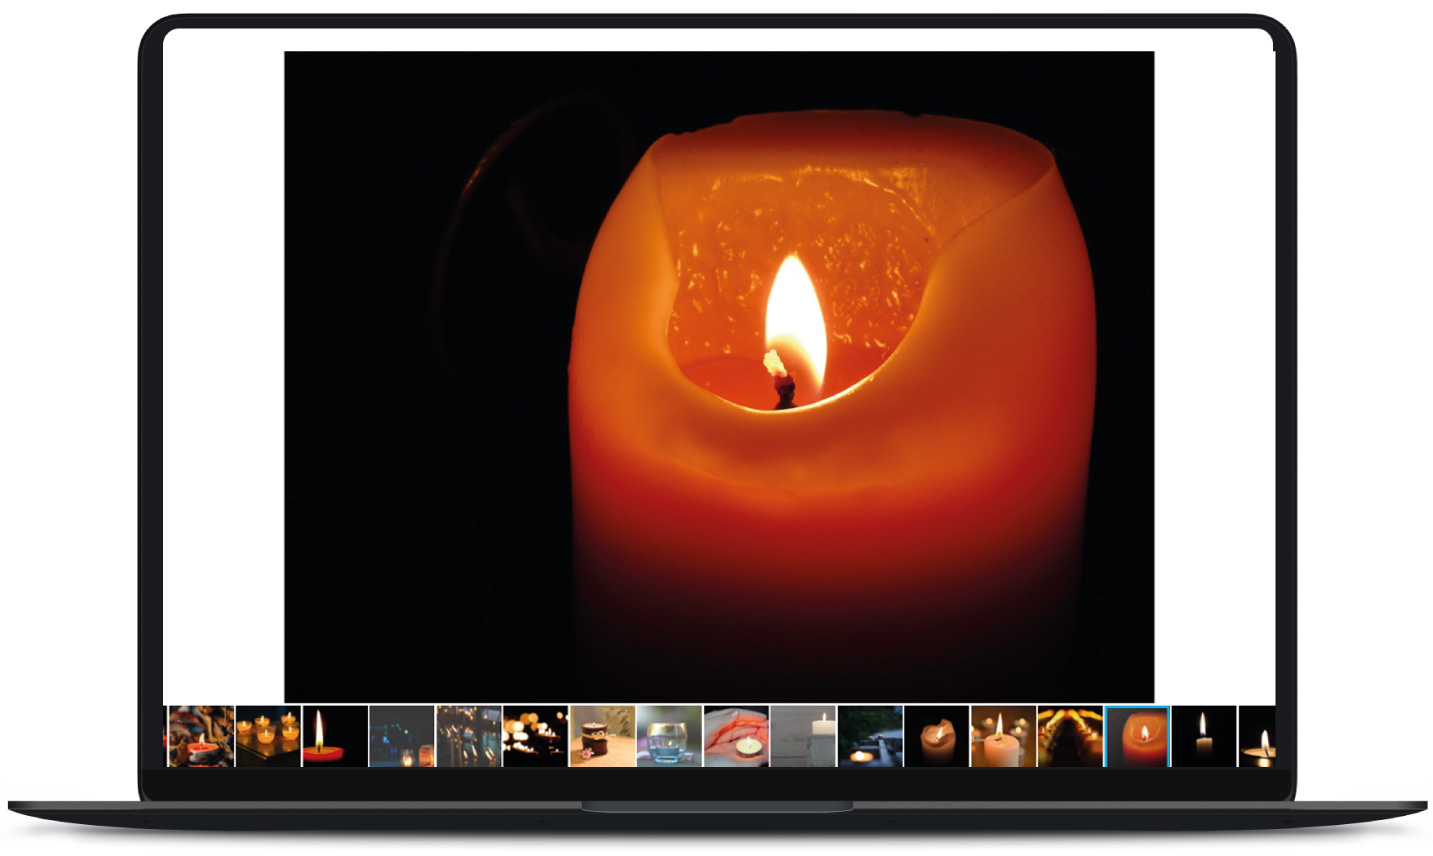
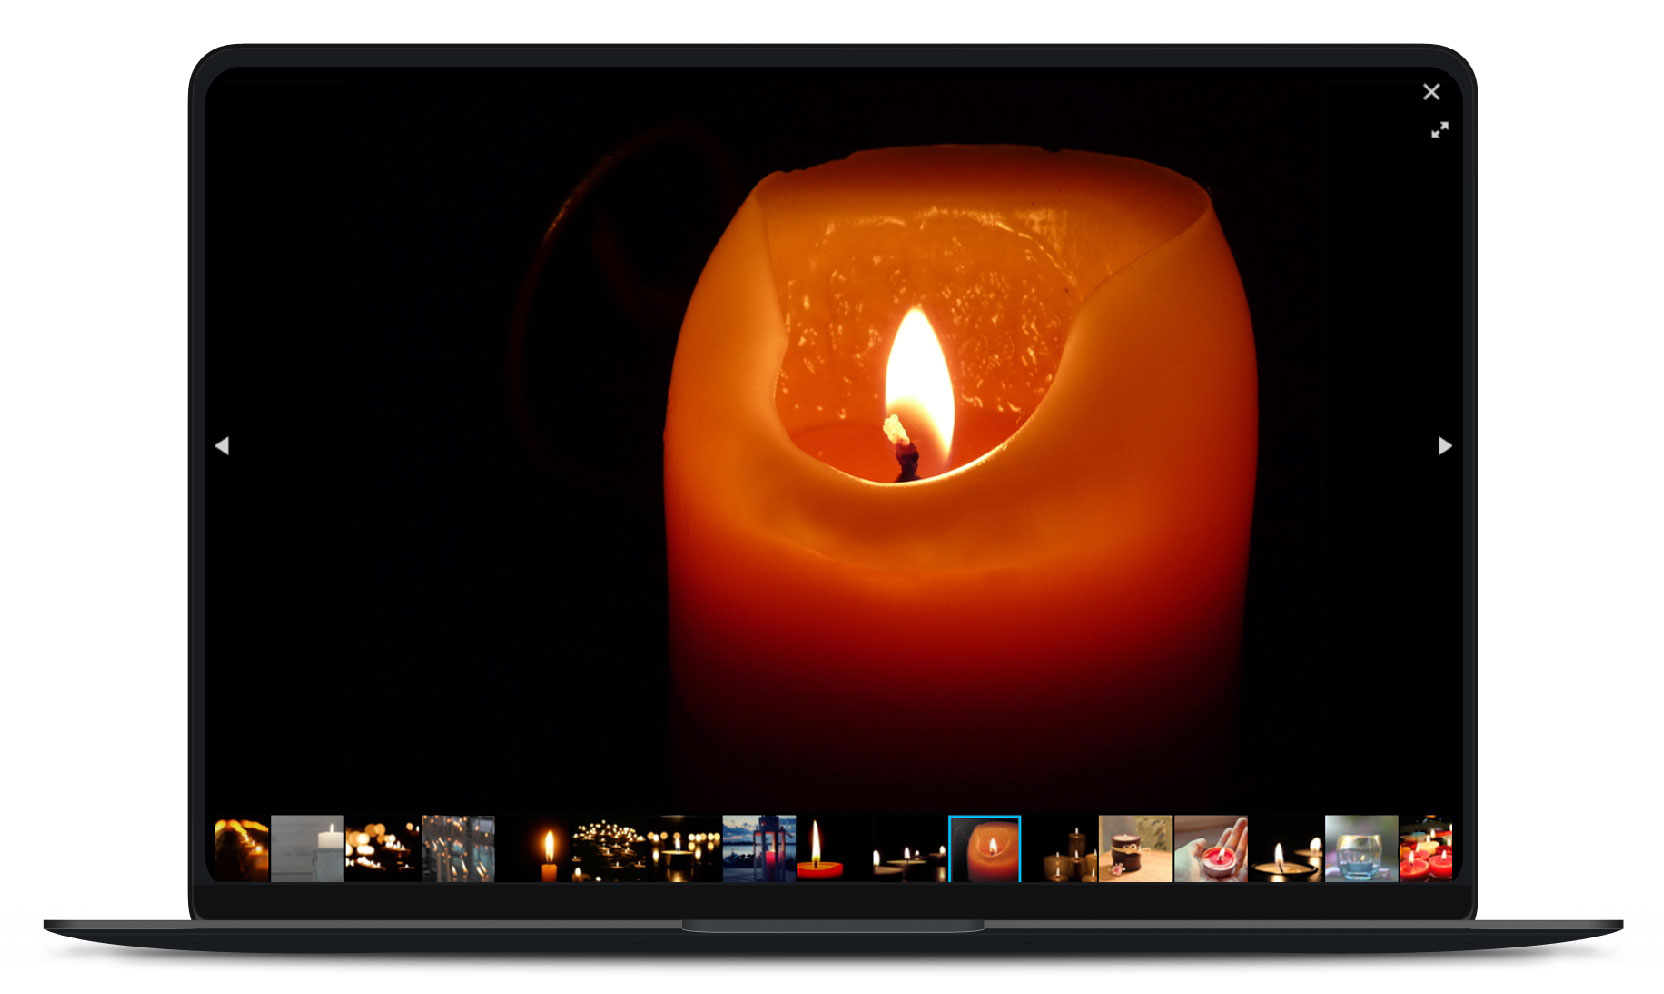
features page image changed, text centered vertically
On the feature spage the image changed to be the full screen of the mockup, and the text next to the image centered vertically

diff --git a/css/piwigodotorg.css b/css/piwigodotorg.css
@@ -1505,6 +1505,16 @@ and (max-device-width : 480px) {
 .row-features-batch-manager {
     margin-top: 100px;
     margin-bottom: 100px;
+    position:relative;
+}
+
+.features-batch-manager-text{
+  position:absolute;
+  margin: 0;
+  top: 50%;
+  -ms-transform: translateY(-50%);
+  transform: translateY(-50%);
+  left: 0;
 }
 
 .row-features-batch-manager h2 {
@@ -1520,15 +1530,19 @@ and (max-device-width : 480px) {
 }
 
 .pwg-features-batch-manager-screen {
-    height: 260px;
-    overflow: visible;
+    /*height: 260px;
+    overflow: visible;*/
+    margin: 0 auto;
+    display: block;
+    max-width: 100%;
+    float:right;
 }
 
 .pwg-features-batch-manager-screen img {
     width: 155%;
     height: auto;
     margin-left: 50px;
-    margin-top: -96px;
+
 }
 
 @media (max-width: 991px) {
